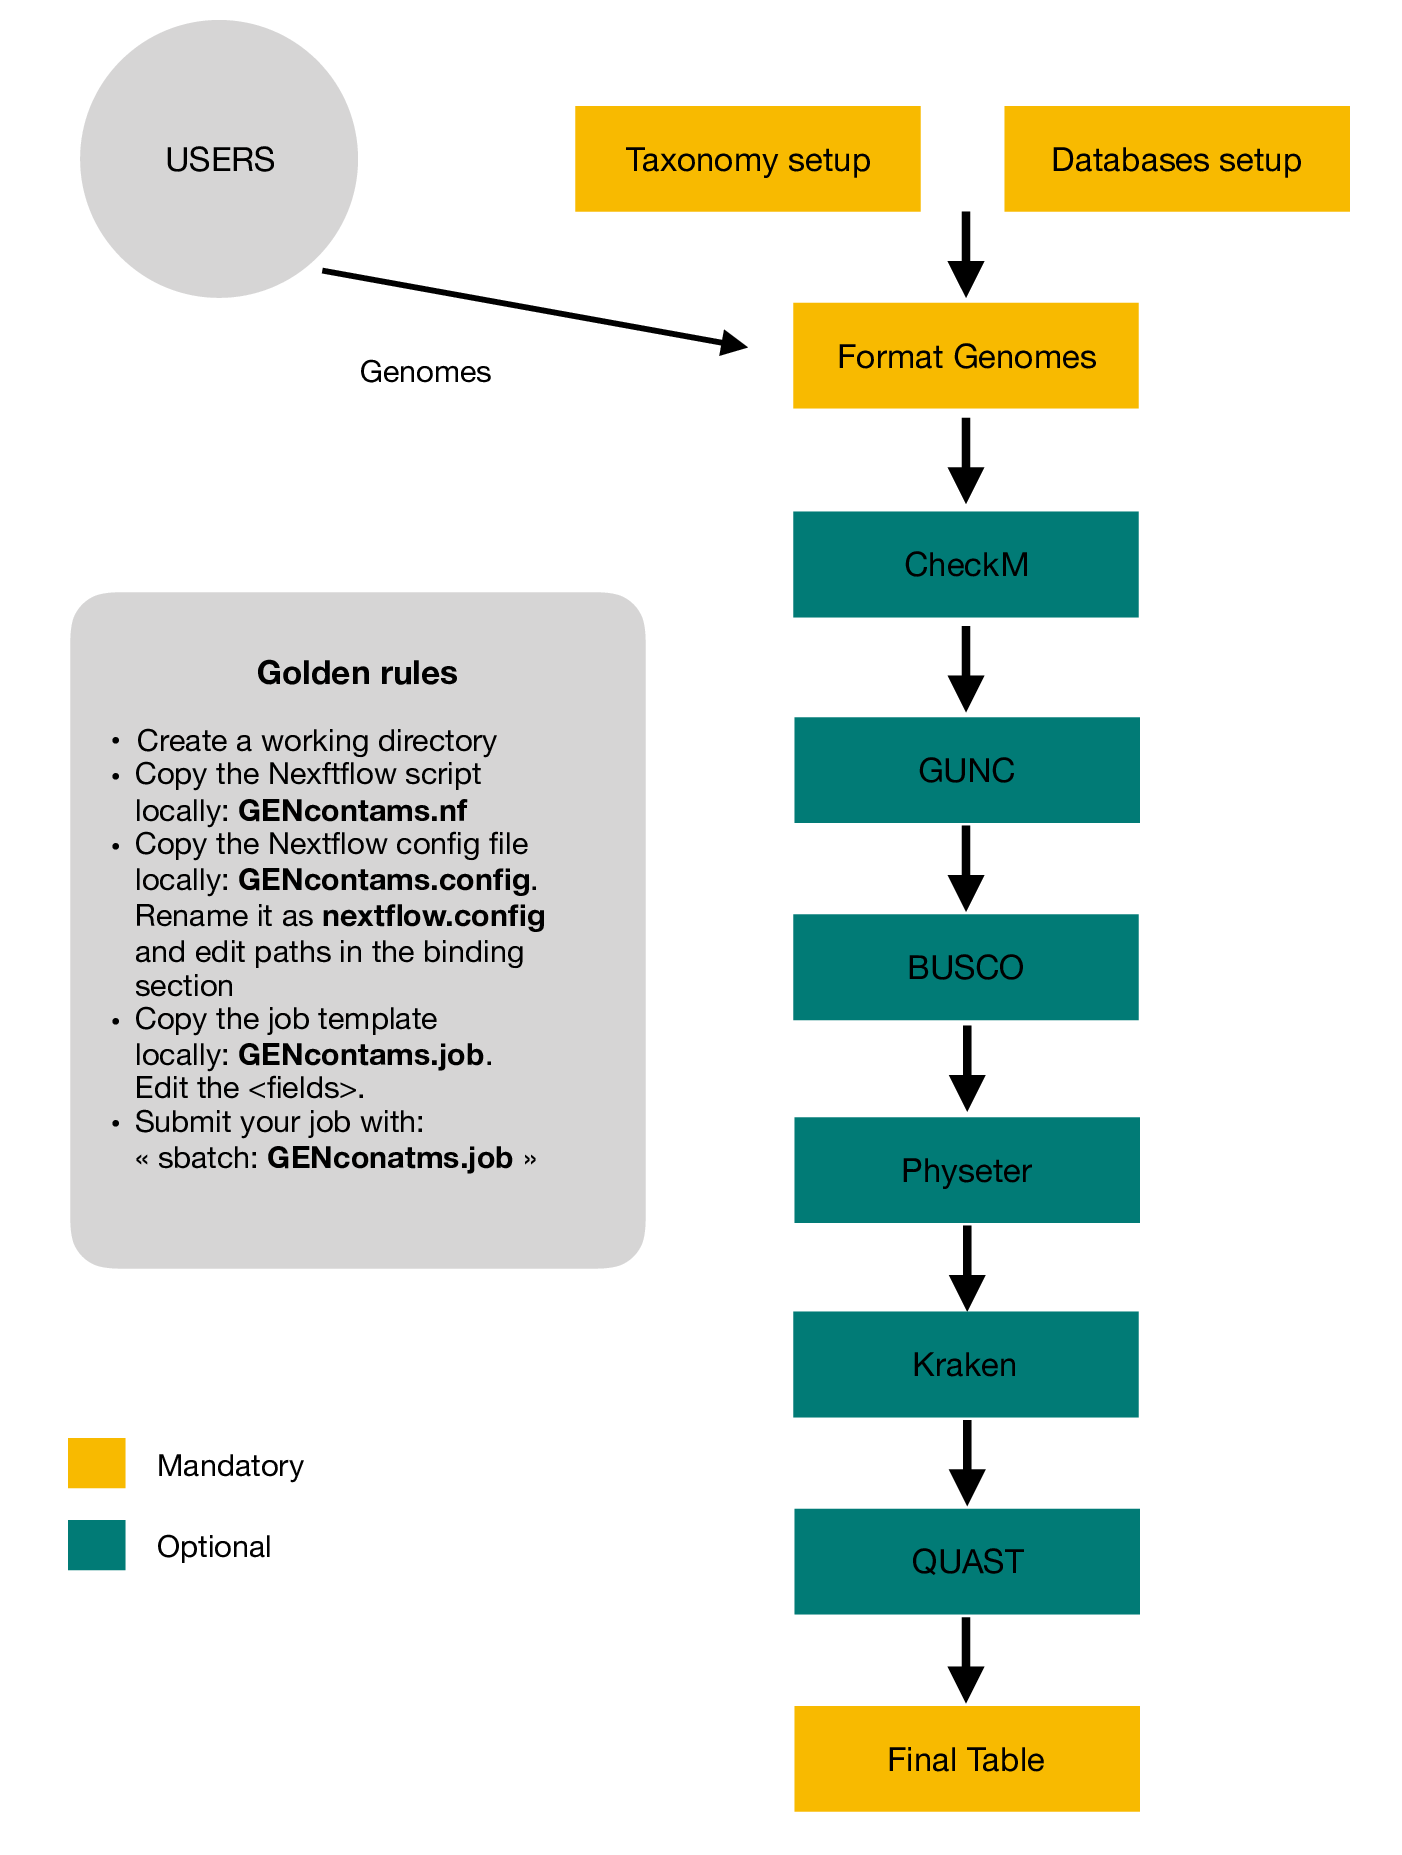
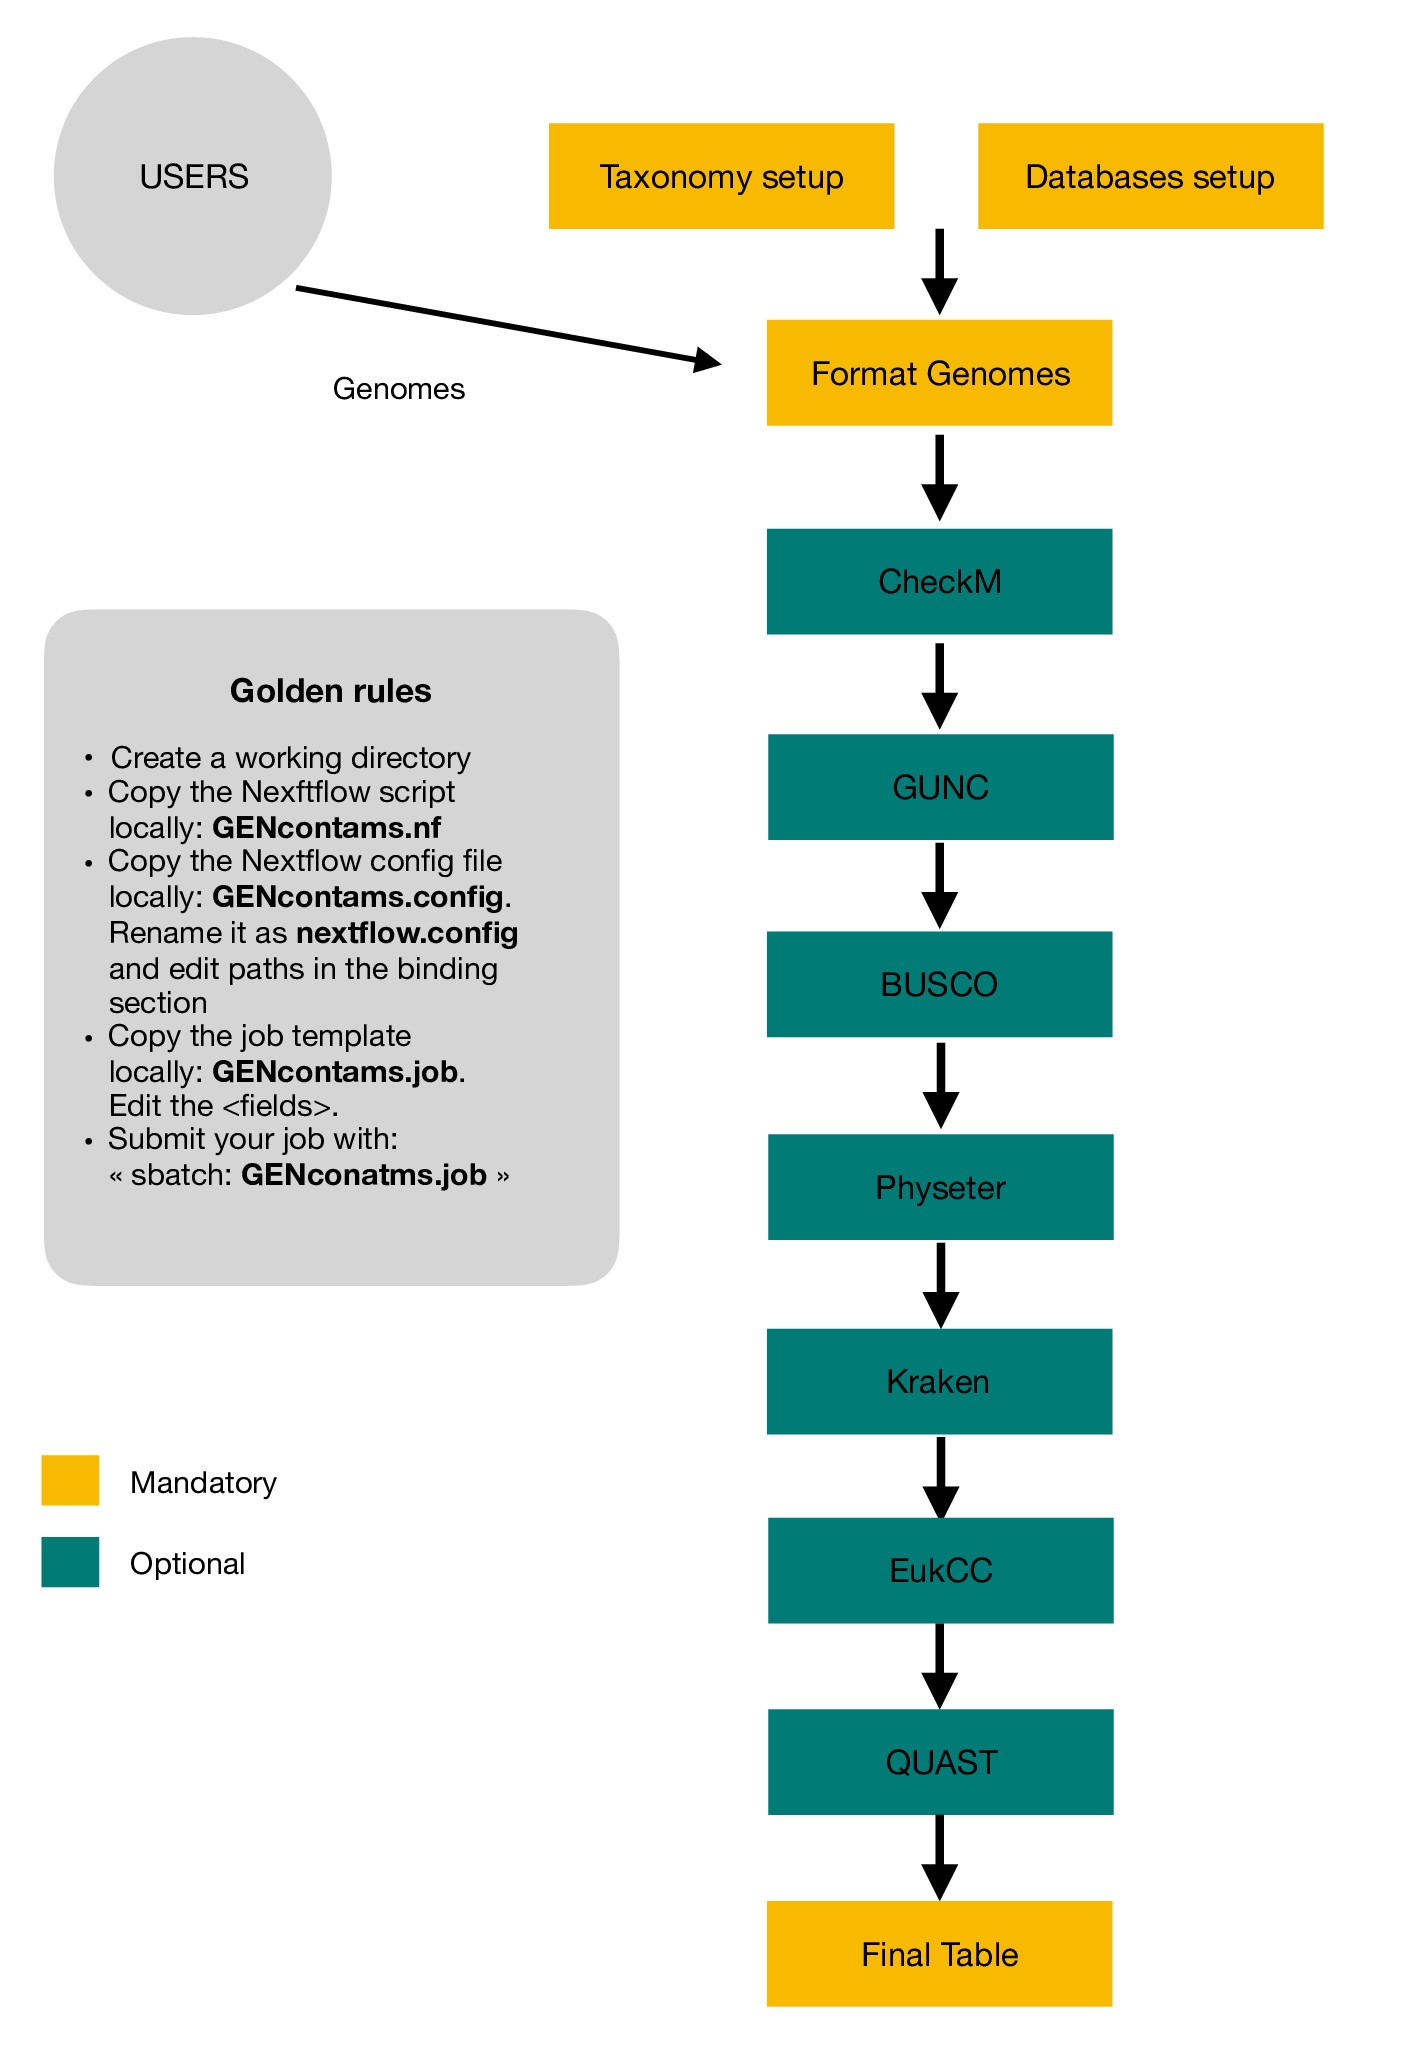
Add EukCC to GENcontams; version 2.0.0

diff --git a/README.md b/README.md
@@ -11,6 +11,7 @@ Please visit
 https://bccm.belspo.be/content/bccm-collections-genomic-era  
 
 # NEWS
+16/05 !!!  EukCC has been added to GENcontams tool version 2.0.0, can be used as an alternative to BUSCO !!!   
 11/05 !!!  BUSCO is temporarily disabled from GENcontams du to permission issue, see issue 23 for info !!!   
 10/05 !!!  Braker has been added to Annotation tool !!!   
 05/05 !!!  The Training is available online: https://www.youtube.com/watch?v=bfqSl9Mi8eA !!!  
